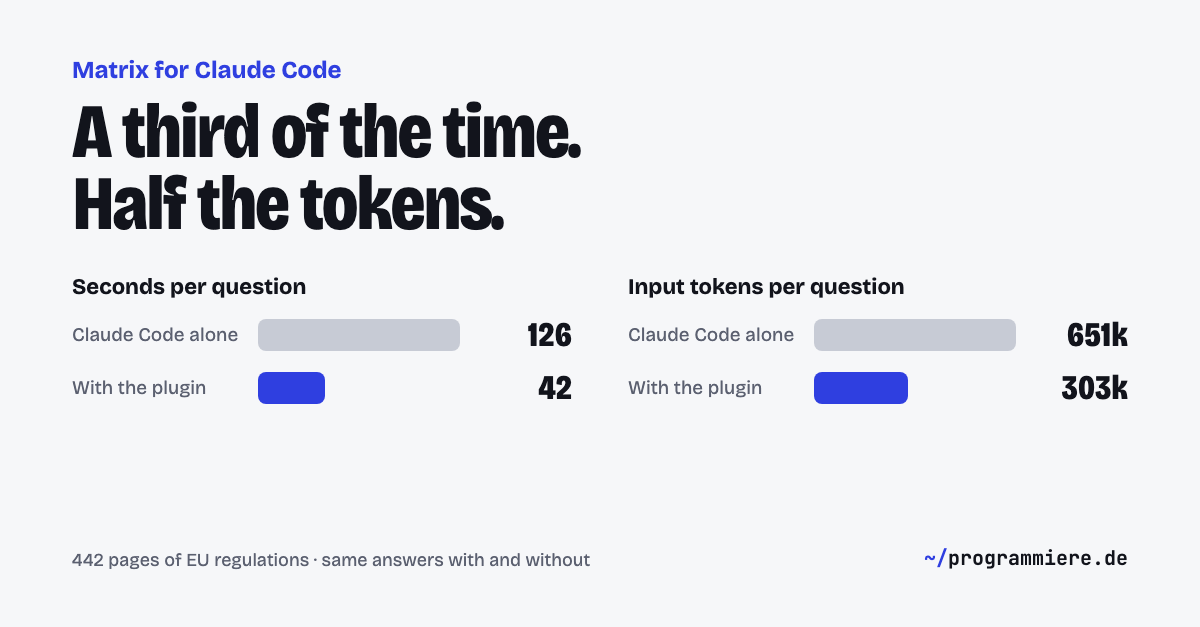
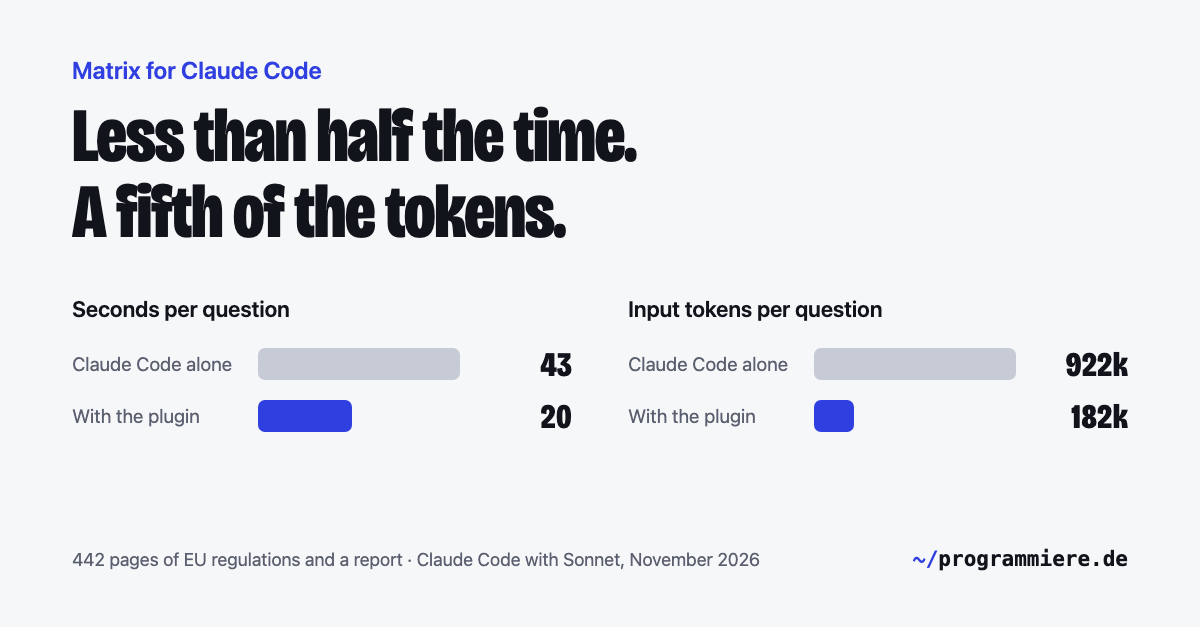
Plugin-Seite: Messwerte auf Messung mit Plugin 0.2.9 (2026-11-19)
Neue Zahlen auf Plugin-Seite, Startseite, Matrix-Seite, Projektliste und CV;
Vergleich zur Oktober-Messung offen dargestellt, 1.592-Seiten-Wert als 0.2.3
gekennzeichnet, Vorschaubild neu.

diff --git a/src/data/cv.ts b/src/data/cv.ts
@@ -76,9 +76,9 @@ export const SIDE_QUESTS = [
   },
   {
     name: 'Matrix for Claude Code',
-    pb: '3× faster',
+    pb: '2× faster',
     what: 'Free Claude Code plugin: local semantic index over document folders, citations to file, page and passage, tables across documents.',
-    note: 'Measured on 442 pages: on average 42 instead of 126 s per question, less than half the input tokens.',
+    note: 'Measured on 442 pages: on average 20 instead of 43 s per question, a fifth of the input tokens.',
     href: '/projects/matrix-claude-code/',
   },
   {

diff --git a/src/content/projects/matrix-claude-code.md b/src/content/projects/matrix-claude-code.md
@@ -1,7 +1,7 @@
 ---
 title: Matrix for Claude Code
-summary: "A free plugin that gives Claude Code a local, searchable index of your PDFs, Word files, scans and charts. Measured on 442 pages: on average 42 instead of 126 seconds per question, less than half the input tokens."
-status: Public · v0.2.3
+summary: "A free plugin that gives Claude Code a local, searchable index of your PDFs, Word files, scans and charts. Measured on 442 pages: on average 20 instead of 43 seconds per question, a fifth of the input tokens."
+status: Public · v0.2.9
 order: 1.5
 featured: true
 links:
@@ -10,5 +10,5 @@ links:
 ---
 
 On its own, Claude Code reads documents the slow way: convert to text, grep, read, repeat, and all
-of that again for every question. Matrix indexes a folder once on your own Mac. After that, every
+of that again for every question. Matrix indexes a folder once on your own computer. After that, every
 question starts with a search by meaning, and every hit comes with file, page and passage.
